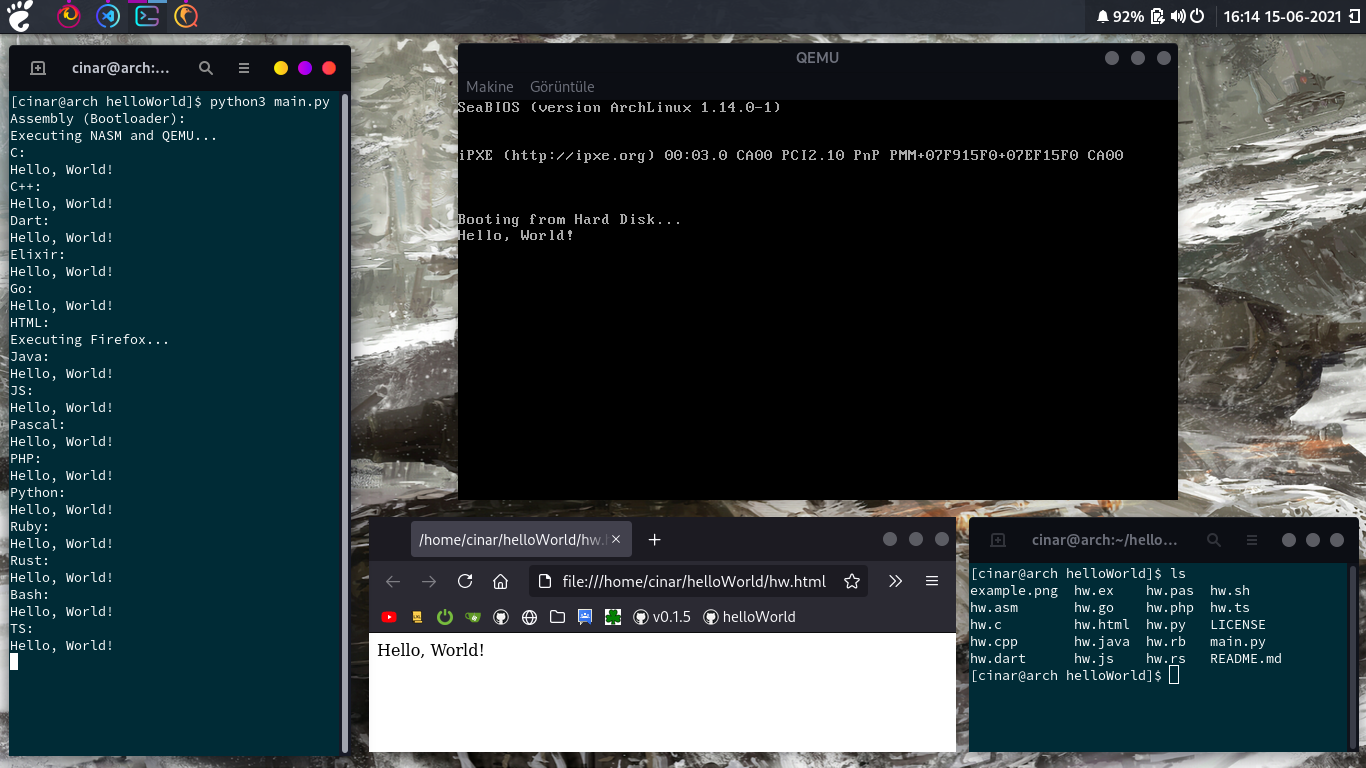
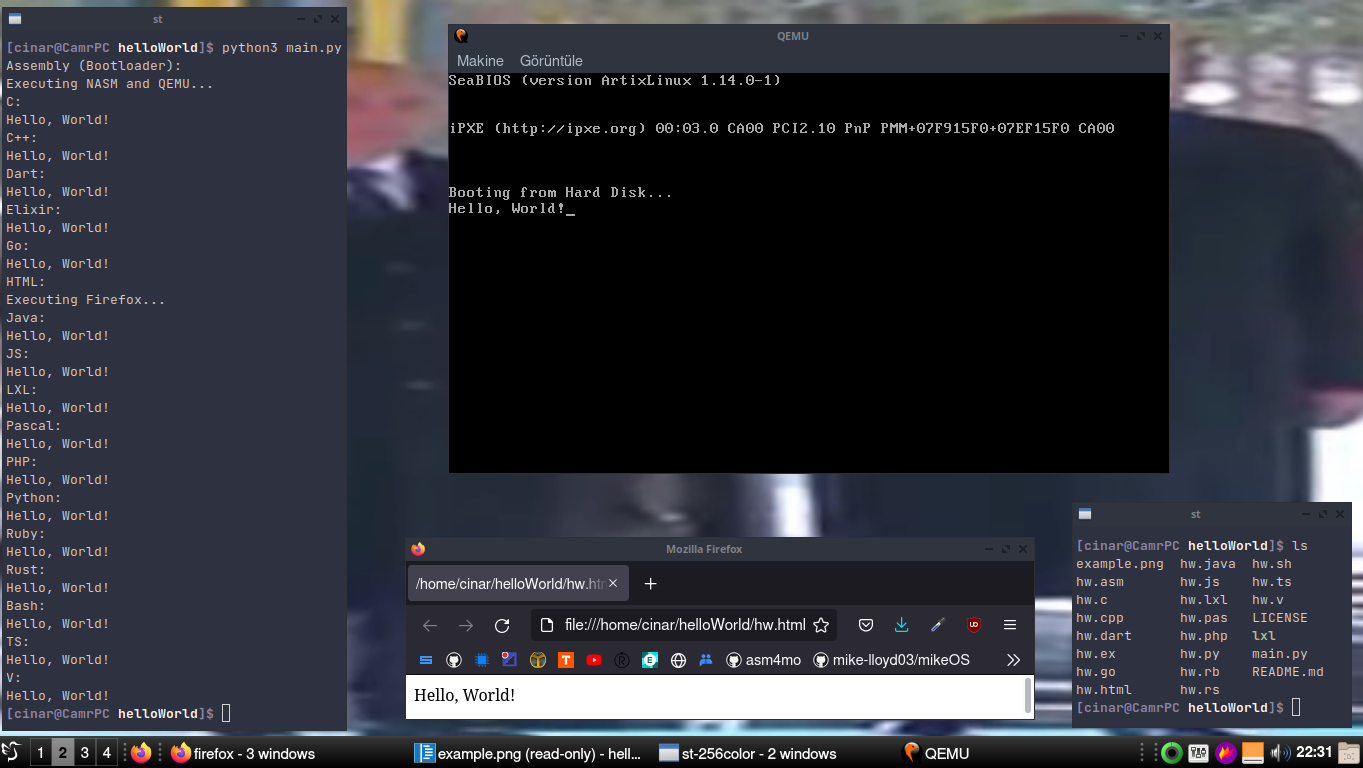
Added comment lines, VLang and updated screenshot

diff --git a/hw.dart b/hw.dart
@@ -1,3 +1,4 @@
+// Dart
 void main(){
     print("Hello, World!");
 }

diff --git a/hw.js b/hw.js
@@ -1,1 +1,2 @@
+// Javascript
 console.log("Hello, World!");

diff --git a/hw.ts b/hw.ts
@@ -1,1 +1,2 @@
+// TypeScript
 console.log("Hello, World!");

diff --git a/hw.html b/hw.html
@@ -1,1 +1,2 @@
+<!-- HTML -->
 <p>Hello, World!</p>

diff --git a/main.py b/main.py
@@ -35,6 +35,8 @@ print("Bash:")
 s("sh hw.sh")
 print("TS:")
 s("ts-node hw.ts")
+print("V:")
+s("v hw.v -o hw_v && ./hw_v")
 s("rm *_* *.bin *.o *.class")
 ##Uncomment for cool screenshots.
 #s("sleep 3600")

diff --git a/hw.cpp b/hw.cpp
@@ -1,3 +1,4 @@
+// C++
 #include <iostream>
 int main(){
     std::cout << "Hello, World!\n";

diff --git a/hw.c b/hw.c
@@ -1,3 +1,4 @@
+// C
 #include <stdio.h>
 int main() {
    printf("Hello, World!\n");

diff --git a/hw.java b/hw.java
@@ -1,3 +1,4 @@
+// Java
 class hw
 {
     public static void main(String[] args)

diff --git a/hw.rs b/hw.rs
@@ -1,3 +1,4 @@
+// Rust
 fn main() {
     println!("Hello, World!");
 }

diff --git a/hw.php b/hw.php
@@ -1,3 +1,4 @@
 <?php
+// PHP
 echo "Hello, World!\n";
 ?>

diff --git a/hw.go b/hw.go
@@ -1,3 +1,5 @@
+// Golang
+
 package main
 
 import "fmt"

diff --git a/hw.py b/hw.py
@@ -1,1 +1,2 @@
+# Python3
 print("Hello, World!")
